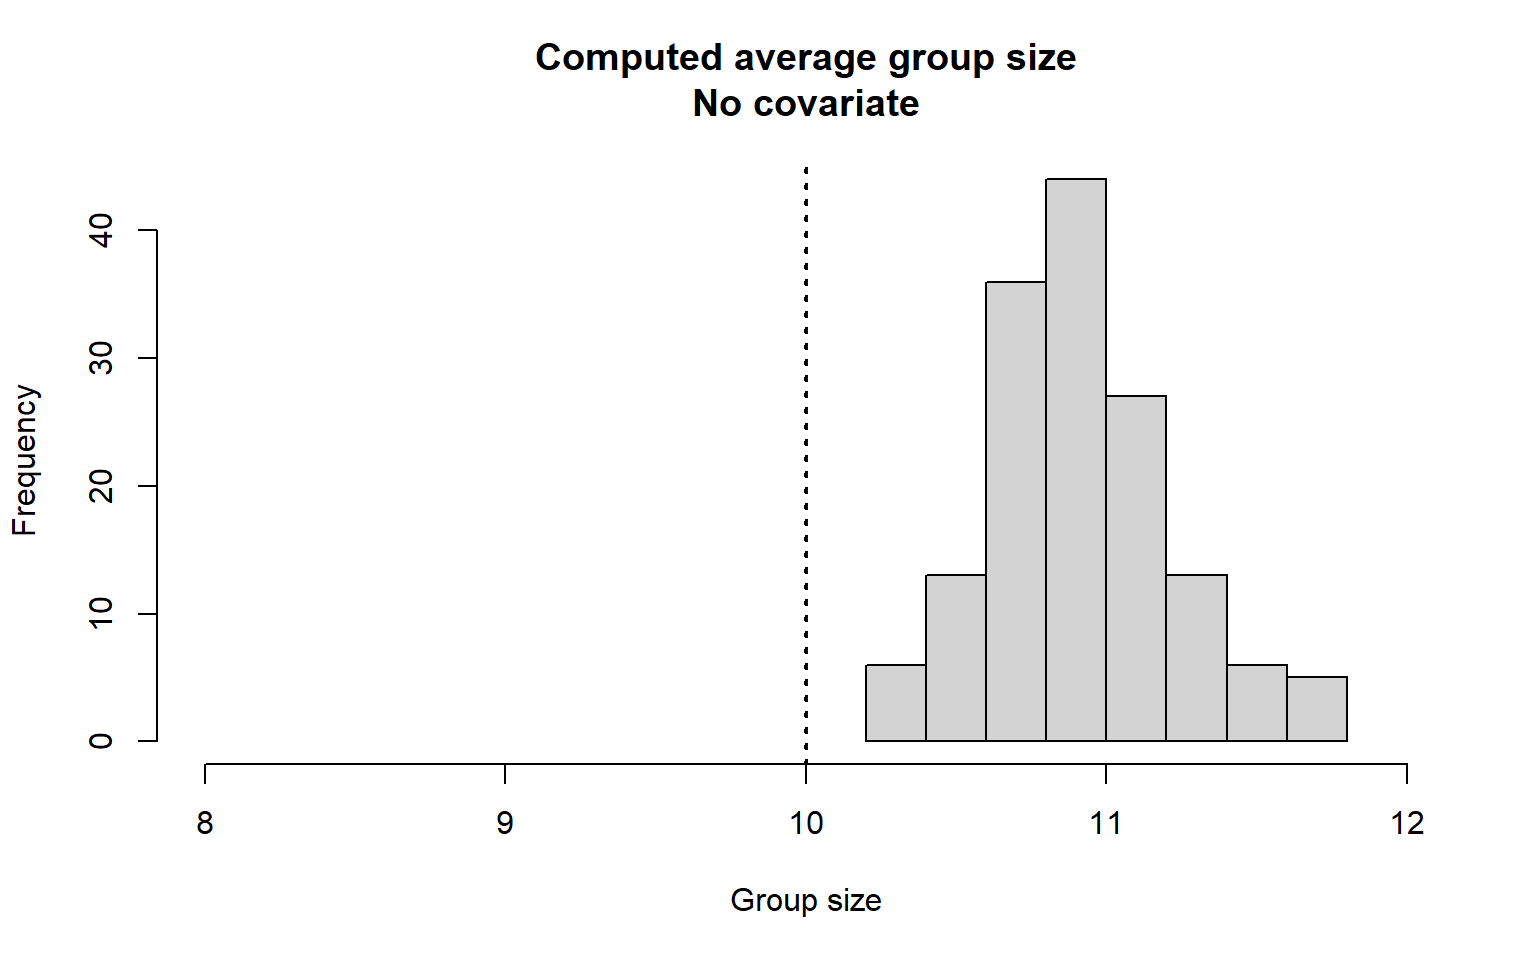
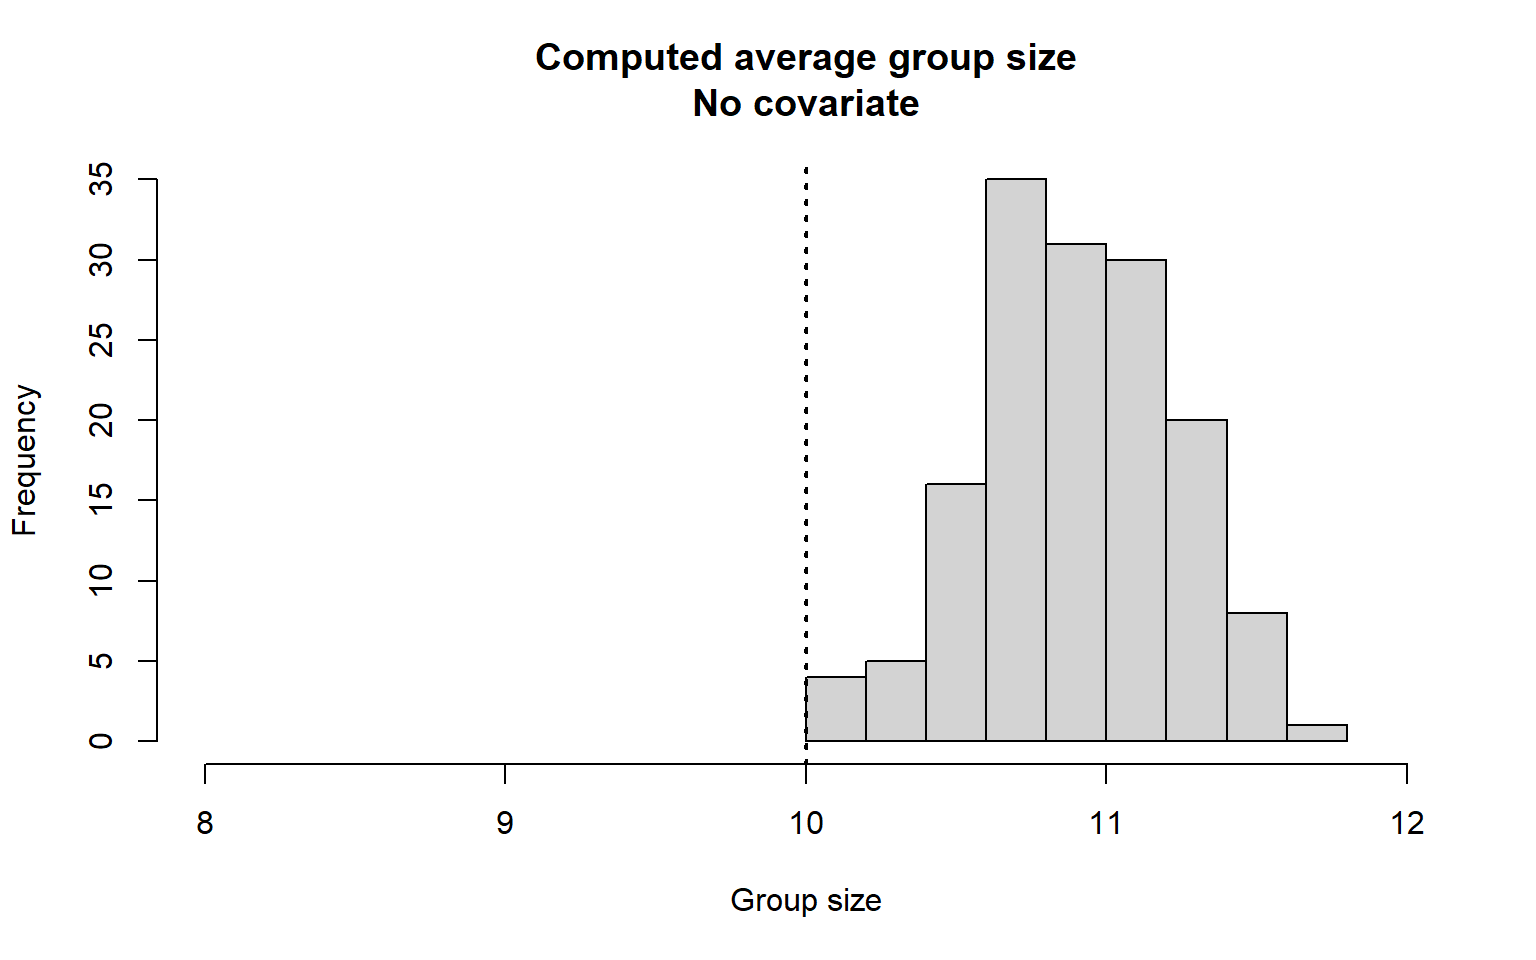
fixed group size covariate demo for Pr8

diff --git a/docs/Pr8/Group-size-covariate.html b/docs/Pr8/Group-size-covariate.html
@@ -277,7 +277,7 @@ Supplement
 <div class="cell-output-display">
 <div id="fig-nocap-margin-first" class="quarto-figure quarto-figure-center anchored">
 <figure class="figure">
-<p><img src="Group-size-covariate_files/figure-html/fig-nocap-margin-first-1.png" class="img-fluid figure-img" width="768"></p>
+<p><img src="Group-size-covariate_files/figure-html/fig-nocap-margin-first-1.png" class="img-fluid figure-img" width="672"></p>
 <p></p><figcaption class="figure-caption">Figure&nbsp;1: <strong>?(caption)</strong></figcaption><p></p>
 </figure>
 </div>
@@ -300,31 +300,14 @@ Supplement
 <section id="analysis-including-group-size-covariate" class="level2">
 <h2 class="anchored" data-anchor-id="analysis-including-group-size-covariate">Analysis including group size covariate</h2>
 <div class="cell">
-<div class="sourceCode cell-code" id="cb2"><pre class="sourceCode r code-with-copy"><code class="sourceCode r"><span id="cb2-1"><a href="#cb2-1" aria-hidden="true" tabindex="-1"></a>runsim.cov <span class="ot">&lt;-</span> <span class="fu">run.simulation</span>(size.cov, <span class="at">run.parallel =</span> <span class="cn">TRUE</span>)</span></code><button title="Copy to Clipboard" class="code-copy-button"><i class="bi"></i></button></pre></div>
-<div class="cell-output cell-output-stderr">
-<pre><code>Summary of warnings and errors:</code></pre>
-</div>
-<div class="cell-output cell-output-stderr">
-<pre><code>Error: No models could be fitted. (Model number: 1) (occurred 1 time(s) in repetition(s):  40)</code></pre>
-</div>
-<div class="cell-output cell-output-stderr">
-<pre><code>simpleWarning in ddf.ds(model = dsmodel, data, meta.data = meta.data, control = control, : Model fitting did not converge. Try different initial values or different model
 
- (Model number: 1) (occurred 1 time(s) in repetition(s):  40)</code></pre>
-</div>
-<div class="cell-output cell-output-stderr">
-<pre><code>None of the models converged for this dataset. (occurred 1 time(s) in repetition(s):  40)</code></pre>
-</div>
-<div class="cell-output cell-output-stderr">
-<pre><code>-----</code></pre>
-</div>
 </div>
 <div class="cell">
 <div class="cell-output-display">
 <p><img src="Group-size-covariate_files/figure-html/small-with-covar-1.png" class="img-fluid" width="768"></p>
 </div>
 </div>
-<p>The distribution of computed average group size centred on the true size of 10 and there was no problem with fitting a detection function. The average over the simulations estimated number of individuals was 1984.65.</p>
+<p>The distribution of computed average group size centred on the true size of 10 and there was no problem with fitting a detection function. The average over the simulations estimated number of individuals was 2000.34, a bias of 0%.</p>
 </section>
 <section id="analysis-without-group-size-covariate" class="level2">
 <h2 class="anchored" data-anchor-id="analysis-without-group-size-covariate">Analysis without group size covariate</h2>
@@ -334,7 +317,7 @@ Supplement
 <p><img src="Group-size-covariate_files/figure-html/nocov-10-1.png" class="img-fluid" width="768"></p>
 </div>
 </div>
-<p>The distribution of computed average groups sizes is shown above. We would expect an overestimate of mean group size because small groups at large distances are missing from our sample; but that effect is small in this instance. As a consequence, the average <span class="math inline">\(\hat{N}_{indiv}\)</span> across all simulations is 2004.91.</p>
+<p>The distribution of computed average groups sizes is shown above. We would expect an overestimate of mean group size because small groups at large distances are missing from our sample; but that effect is small in this instance. As a consequence, the average <span class="math inline">\(\hat{N}_{indiv}\)</span> across all simulations is 2011.52, a bias of 0.6%.</p>
 </section>
 </section>
 <section id="example-2-possible-dolphin-pods-or-seabird-rafts" class="level1">
@@ -347,23 +330,6 @@ Supplement
 </div>
 <div class="cell-output-display">
 <p><img src="Group-size-covariate_files/figure-html/lognor-with-2.png" class="img-fluid" width="672"></p>
-</div>
-<div class="cell-output cell-output-stderr">
-<pre><code>Summary of warnings and errors:</code></pre>
-</div>
-<div class="cell-output cell-output-stderr">
-<pre><code>Error: No models could be fitted. (Model number: 1) (occurred 1 time(s) in repetition(s):  129)</code></pre>
-</div>
-<div class="cell-output cell-output-stderr">
-<pre><code>simpleWarning in ddf.ds(model = dsmodel, data, meta.data = meta.data, control = control, : Model fitting did not converge. Try different initial values or different model
-
- (Model number: 1) (occurred 1 time(s) in repetition(s):  129)</code></pre>
-</div>
-<div class="cell-output cell-output-stderr">
-<pre><code>None of the models converged for this dataset. (occurred 1 time(s) in repetition(s):  129)</code></pre>
-</div>
-<div class="cell-output cell-output-stderr">
-<pre><code>-----</code></pre>
 </div>
 </div>
 <p>How about “missingness” of small groups at large distances?</p>
@@ -379,7 +345,7 @@ Supplement
 <p><img src="Group-size-covariate_files/figure-html/unnamed-chunk-11-1.png" class="img-fluid" width="672"></p>
 </div>
 </div>
-<p>When including <code>size</code> as a covariate, estimates of average group size are not affected (figure above). Likewise, mean <span class="math inline">\(\hat{N}_{indiv}\)</span> is effectively unbiased: 4407.68.</p>
+<p>When including <code>size</code> as a covariate, estimates of average group size are not affected (figure above). Likewise, mean <span class="math inline">\(\hat{N}_{indiv}\)</span> is effectively unbiased: 4421.29, a bias of 0.9%. .</p>
 </section>
 <section id="analysis-without-the-covariate" class="level2">
 <h2 class="anchored" data-anchor-id="analysis-without-the-covariate">Analysis without the covariate</h2>
@@ -388,7 +354,7 @@ Supplement
 <p><img src="Group-size-covariate_files/figure-html/lognor-without-1.png" class="img-fluid" width="672"></p>
 </div>
 </div>
-<p>Now mean <span class="math inline">\(\hat{N}_{indiv}\)</span> is <strong>considerably biased</strong>: 5373.25, 22.5 percent larger than the true number of individuals in the population, 4388.</p>
+<p>Now mean <span class="math inline">\(\hat{N}_{indiv}\)</span> is <strong>considerably biased</strong>: 5259.34, a bias of 20.1%.</p>
 <div class="cell">
 <div class="cell-output-display">
 <p><img src="Group-size-covariate_files/figure-html/unnamed-chunk-13-1.png" class="img-fluid" width="672"></p>
